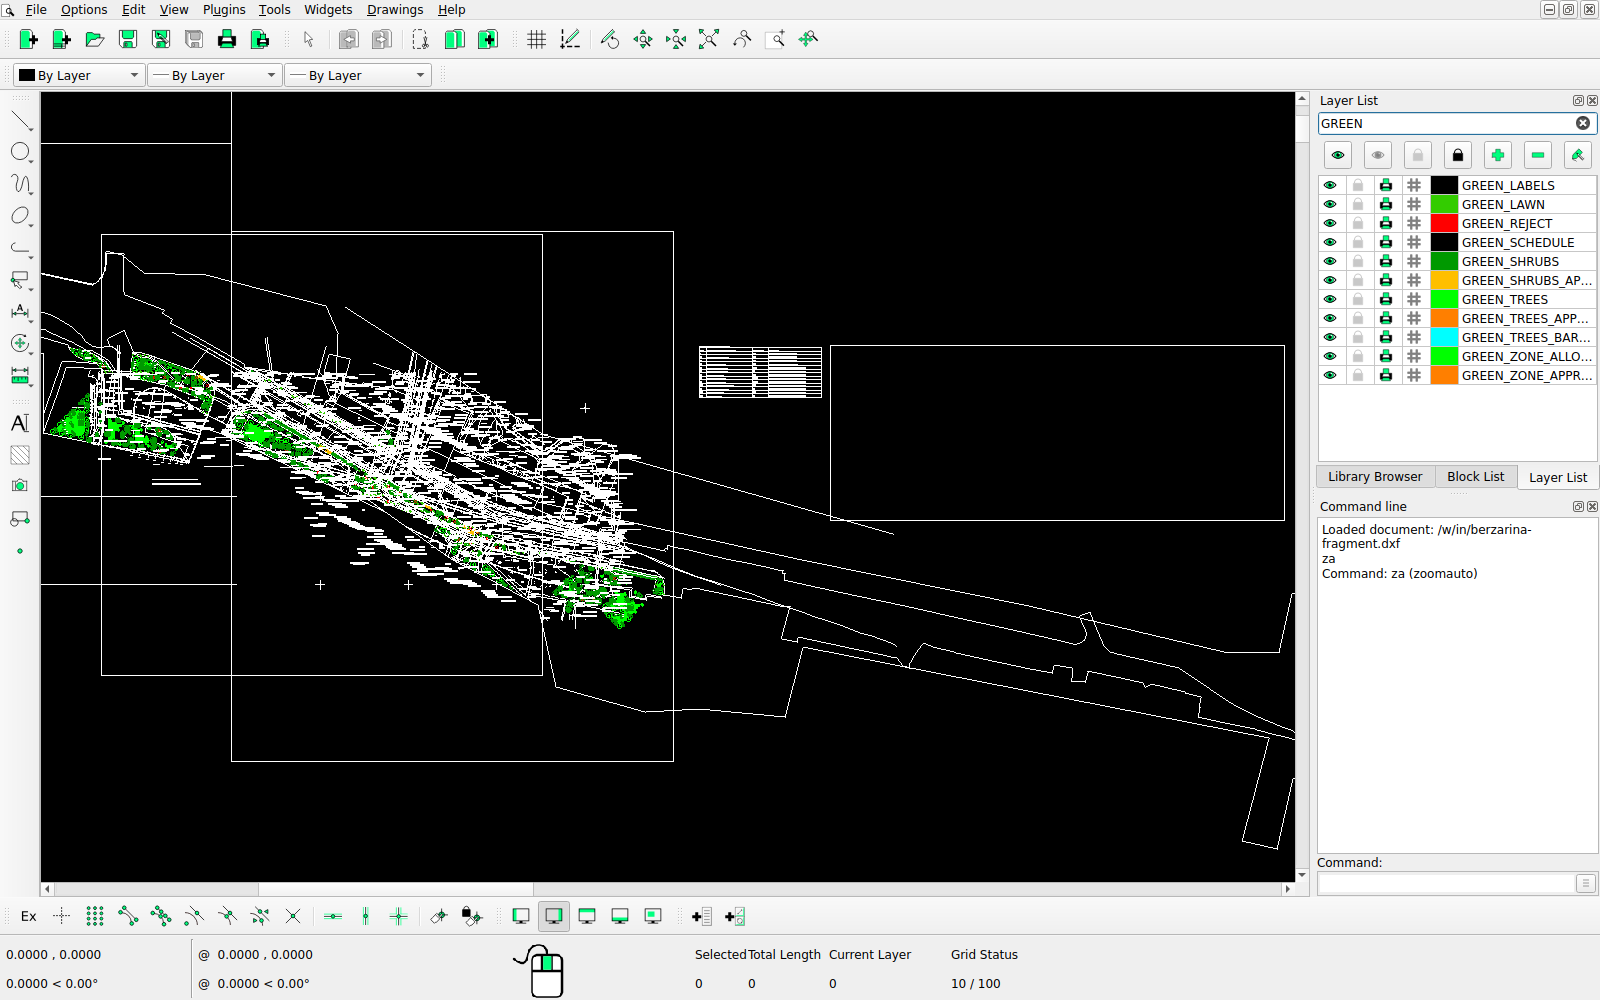
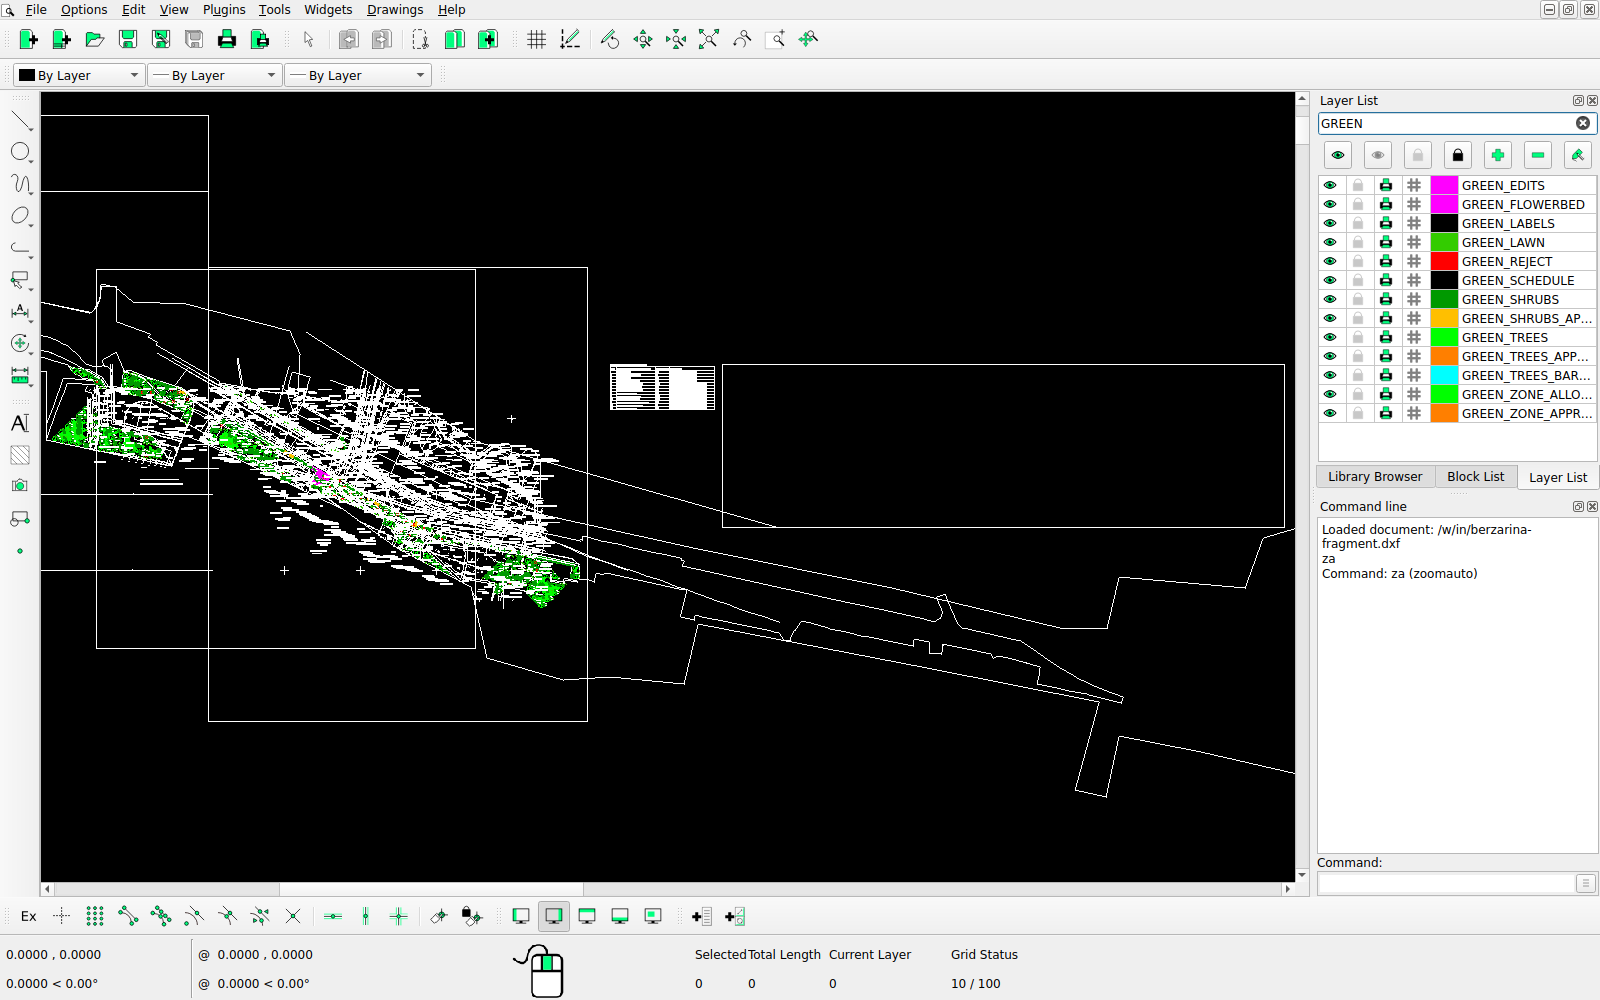
docs(run): LibreCAD check of 18.10 with readable Cyrillic and the flowerbed layer

diff --git a/docs/documentation/05-run.md b/docs/documentation/05-run.md
@@ -172,26 +172,31 @@ docker run --rm -v "$PWD/out/cadcheck-in:/w/in" -v "$PWD/out/cadcheck:/w/out" gr
 и разворачивается на весь экран 1600 x 1000, поэтому строка команд и список слоёв стоят на
 известных местах.
 
-Проверка 29.09.2026: LibreCAD 2.2.0.2 под Ubuntu 26.04.1, два `result.dxf` строгого профиля,
-посчитанных образом сервиса с кодом коммита `6d0e847`: встроенный фрагмент Берзарина (7 МБ,
-открылся за 13 с) и Кустанайская улица (33 МБ, открылась за 397 с). Оба файла открываются,
-слои `GREEN_*` стоят в списке рядом с исходными и включаются отдельно, план виден целиком
-поверх подосновы, ведомость и легенда стоят справа от плана и на него не заходят. Число
-посадок в ведомости сходится со слоями: у фрагмента 82 дерева и 1123 куста, у Кустанайской
-210 и 794. Снимки лежат в `examples/berzarina-fragment/cad/` (`examples/README.md`).
+Проверка 18.10.2026: LibreCAD 2.2.0.2 под Ubuntu 26.04.1 (контейнер `docker/cadcheck`),
+`result.dxf` встроенного фрагмента Берзарина строгого профиля (9 МБ, открылся за 7 с):
+1283 посадки, из них 82 дерева и 1201 куст, 16 газонов и цветник. Что видно на снимках:
+- слои `GREEN_*`, включая `GREEN_LAWN` и `GREEN_FLOWERBED`, стоят в списке рядом с исходными
+  и включаются отдельно;
+- план виден целиком поверх подосновы, ведомость и легенда стоят справа от плана;
+- русские слова ведомости читаются (рис. 5.3);
+- LibreCAD не выбросил при открытии ни одного объекта. Прошлый узор цветника STARS он
+  выбрасывал: в его наборе узоров STARS нет. Тест держит узоры результата в наборе LibreCAD.
 
-<figure class="wide"><img src="../../examples/berzarina-fragment/cad/librecad-result.png" alt="LibreCAD: фрагмент улицы Берзарина, результат поверх подосновы"><figcaption>Рис. 5.1. Фрагмент улицы Берзарина в LibreCAD 2.2 под Linux: вид вписан по слоям GREEN_*, включены все слои. Посадки (зелёным) и отказы (красным) лежат поверх подосновы; правее плана - ведомость и легенда, мелкий текст LibreCAD на общем виде рисует полосками и рамкой.</figcaption></figure>
+Проверка 29.09.2026 тем же контейнером: Кустанайская улица (33 МБ) открылась за 397 с, число
+посадок в ведомости сошлось со слоями. Снимки лежат в `examples/berzarina-fragment/cad/`.
 
-<figure class="wide"><img src="../../examples/berzarina-fragment/cad/librecad-layers.png" alt="LibreCAD: список слоёв с фильтром GREEN"><figcaption>Рис. 5.2. Тот же чертёж, список слоёв с фильтром GREEN: 11 слоёв результата отдельно от исходных, каждый включается и выключается сам по себе.</figcaption></figure>
+<figure class="wide"><img src="../../examples/berzarina-fragment/cad/librecad-result.png" alt="LibreCAD: фрагмент улицы Берзарина, результат поверх подосновы"><figcaption>Рис. 5.1. Фрагмент улицы Берзарина в LibreCAD 2.2 под Linux: вид вписан по слоям GREEN_*, включены все слои. Посадки (зелёным), отказы (красным) и цветник (лиловым) лежат поверх подосновы; правее плана - ведомость и легенда.</figcaption></figure>
 
-<figure class="wide"><img src="../../examples/berzarina-fragment/cad/librecad-schedule.png" alt="LibreCAD: ведомость элементов озеленения крупно"><figcaption>Рис. 5.3. Ведомость элементов озеленения крупно: номера позиций, количества и размеры посадочного материала читаются, русские слова LibreCAD рисует значками.</figcaption></figure>
+<figure class="wide"><img src="../../examples/berzarina-fragment/cad/librecad-layers.png" alt="LibreCAD: список слоёв результата"><figcaption>Рис. 5.2. Тот же чертёж, список слоёв: слои результата GREEN_* отдельно от исходных, каждый включается и выключается сам по себе.</figcaption></figure>
+
+<figure class="wide"><img src="../../examples/berzarina-fragment/cad/librecad-schedule.png" alt="LibreCAD: ведомость элементов озеленения крупно"><figcaption>Рис. 5.3. Ведомость элементов озеленения крупно: позиции, названия пород и видов по-русски, количества и стандарт посадочного материала читаются.</figcaption></figure>
 
 Особенности LibreCAD:
 
-- кириллицы в штриховом шрифте LibreCAD нет, а TrueType-шрифт стиля подписей он не
-  подгружает: русские слова ведомости, легенды и подосновы видны значками. Цифры и латиница
-  читаются: позиции, количества и размеры в ведомости (рис. 5.3), коды правил `R-...`, номера
-  актов и пунктов в легенде. nanoCAD и QCAD рисуют TrueType, но в этой проверке не участвовали;
+- подписи результата написаны стилем `unicode`: так LibreCAD берёт свой штриховой шрифт
+  `unicode.lff` с кириллицей, а AutoCAD и nanoCAD - TrueType-файл стиля. Подписи подосновы
+  со стилем `standard` LibreCAD по-прежнему рисует без кириллицы: в его шрифте `standard`
+  русских букв нет;
 - атрибуты вставок LibreCAD не рисует, поэтому номер позиции ведомости у каждой посадки
   записан ещё и обычным текстом на слое `GREEN_LABELS` (атрибут `POS` скрыт, чтобы nanoCAD не
   показал номер дважды): на крупном виде цифры у посадок читаются
